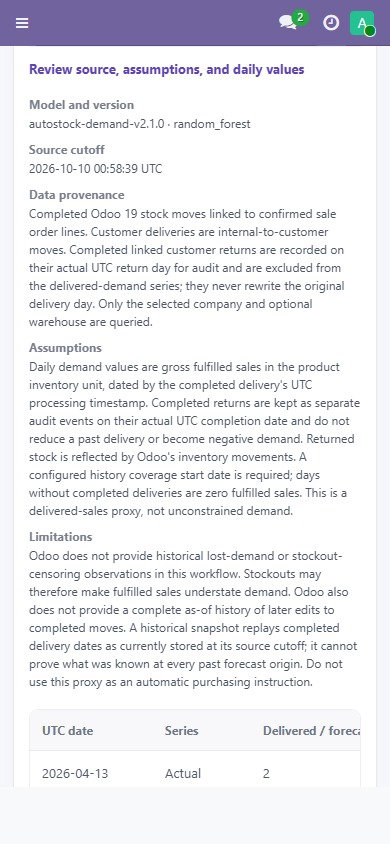
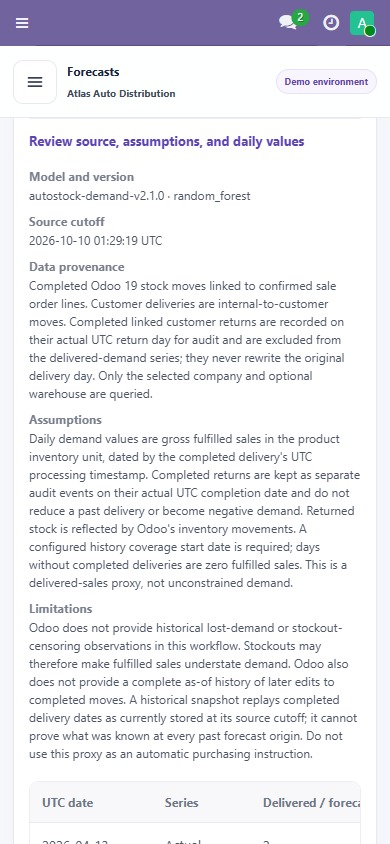
fix(ui): improve responsive workspace navigation and QA evidence

Changed region(s): [[0.0615, 0.0616, 0.9538, 0.955], [0.2462, 0.9858, 0.2769, 1.0], [0.1231, 0.9858, 0.1538, 1.0]]

diff --git a/addons/autostock_ai/static/src/dashboard/dashboard.scss b/addons/autostock_ai/static/src/dashboard/dashboard.scss
@@ -503,11 +503,16 @@
     .as-onboarding-steps { grid-template-columns: 1fr; }
 }
 @media (max-width: 600px) {
-    .as-appbar { min-height: 56px; gap: 10px; padding: 6px 13px; }
-    .as-appbar-context { gap: 7px; font-size: 12px; }
-    .as-appbar-company { max-width: 44%; padding-left: 10px; }
-    .as-appbar-company .as-company-caption { font-size: 10px; }
-    .as-appbar-company strong { max-width: 100%; font-size: 11px; }
+    .as-appbar { display: grid; grid-template-columns: 44px minmax(0, 1fr) auto; grid-template-rows: min-content min-content; align-content: center; min-height: 72px; gap: 2px 10px; padding: 7px 13px; }
+    .as-menu-toggle { grid-column: 1; grid-row: 1 / 3; align-self: center; }
+    .as-appbar-context { grid-column: 2; grid-row: 1; gap: 0; font-size: 12px; }
+    .as-appbar-context > span,
+    .as-appbar-context > i { display: none; }
+    .as-appbar-context strong { max-width: 100%; }
+    .as-appbar-company { grid-column: 2; grid-row: 2; max-width: 100%; margin: 0; padding: 0; border: 0; }
+    .as-appbar-company .as-company-caption { display: none; }
+    .as-appbar-company strong { max-width: 100%; font-size: 10px; }
+    .as-demo-environment { grid-column: 3; grid-row: 1 / 3; align-self: center; padding: 5px 8px; font-size: 9px; white-space: nowrap; }
     .as-page-content { padding: 18px 13px 26px; }
     .as-topline { align-items: flex-start; gap: 12px; }
     .as-title { font-size: 29px; }

diff --git a/docs/qa/dashboard-information-architecture.md b/docs/qa/dashboard-information-architecture.md
@@ -1,0 +1,54 @@
+# PR #19 browser QA: Dashboard, Forecasts, and Restock
+
+Status: completed on `codex/dashboard-information-architecture`. This is a local browser review of the implementation in PR #19; the PR remains unmerged. The app ran against the dedicated `autostock_showroom_demo` Odoo 19 database and its isolated PostgreSQL 16 service.
+
+## Results
+
+- The Windows PowerShell 5.1 launcher completed successfully with the documented command. Its UTF-8 BOM was missing, which made PowerShell 5.1 misread the en dash in a message as a quote. Adding the BOM fixed parsing; the launcher updated AutoStock AI in the existing showroom, and the seed reported that no records were changed.
+- The Playwright browser flow passed at 1440×1000 desktop, 1024×900 tablet, 390×844 mobile, and 320×780 compact mobile. It authenticated only to `autostock_showroom_demo`, and reported no browser errors or horizontal overflow.
+- Navigation between Dashboard, Forecasts, and Restock changes the active heading and moves keyboard focus to it. The mobile drawer opens and closes during navigation. The mobile app bar now gives the active screen a readable line above the company name and demo marker; the breadcrumb no longer clips at 390px or 320px.
+- Dashboard showed 64 tracked products and a live restock preview bounded to three rows. The preview's “See why” action opened Restock. The full inventory and risk tables were absent from Dashboard.
+- Forecasts opened the evaluated Odoo-history run for `AT-FLT-001` (Engine Oil Filter), showed 180 daily observations, changed between 7-, 30-, and 60-day horizons, and displayed Full history. The business-language demand summary and optional evaluation details were checked; source evidence opened and closed correctly.
+- Restock filtered to Atlas Central Warehouse and `AT-FLT-001`, returned the single matching row, and displayed the live calculated suggestion of 72 inventory units. Its expanded evidence showed the stock position, eligible reviewed forecast, Odoo reorder policy, supplier lead time, quantity method, and read-only boundary. No order was created.
+
+The browser runner also checks that Dashboard does not expose the full Restock table, Forecasts does not include Dashboard KPIs, and Restock does not include the full forecasting panel. The test-only Playwright package was installed under the ignored `.showroom` directory.
+
+## Visual comparison
+
+The live UI follows the reference's light surfaces, restrained violet accent, KPI cards, readable charts, and clear status colors while keeping the Odoo navigation and company context visible. PR #19 intentionally separates the working parts of the application into Dashboard, Forecasts, and Restock; the reference combines these areas on one screen and includes unsupported assistant, report, purchasing, and accuracy elements. The implementation keeps the actual Odoo-driven forecast and inventory evidence and does not reproduce those illustrative claims.
+
+The mobile screenshots showed the app-bar breadcrumb compressed to one letter beside the company and demo marker. The app bar now uses two rows on narrow screens, preserving the complete active page name and company context. No other rendering or interaction issue was found in the exercised flows.
+
+## Screenshots
+
+All captures below came from the local Playwright-controlled browser and contain only the fictional showroom data.
+
+### Desktop
+
+![Dashboard at desktop size](screenshots/showroom/showroom-dashboard-desktop.jpg)
+
+![Dashboard restock preview at desktop size](screenshots/showroom/showroom-dashboard-restock-preview-desktop.jpg)
+
+![Forecast controls at desktop size](screenshots/showroom/showroom-forecasts-overview-desktop.jpg)
+
+![Restock at desktop size](screenshots/showroom/showroom-restock-desktop.jpg)
+
+![Restock calculation evidence at desktop size](screenshots/showroom/showroom-stock-risk-evidence-desktop.jpg)
+
+### Mobile
+
+![Dashboard at mobile size](screenshots/showroom/showroom-dashboard-mobile.jpg)
+
+![Dashboard restock preview at mobile size](screenshots/showroom/showroom-dashboard-restock-preview-mobile.jpg)
+
+![Forecast controls at mobile size](screenshots/showroom/showroom-forecasts-overview-mobile.jpg)
+
+![Restock at mobile size](screenshots/showroom/showroom-restock-mobile.jpg)
+
+![Restock calculation evidence at mobile size](screenshots/showroom/showroom-stock-risk-evidence-mobile.jpg)
+
+The screenshot directory also contains the 1024px tablet captures, 320px compact-mobile captures, full-history chart views, forecast source/evaluation evidence, native Odoo product search, and the mobile navigation drawer.
+
+## Limits
+
+The company, products, sales, stock, supplier terms, and forecast history are generated fictional data. The `72`-unit suggestion is the result of AutoStock's existing Odoo-backed rules for this fixture only. It is not a business benchmark or a purchase order. This QA does not establish production readiness or validate any unfinished feature.
